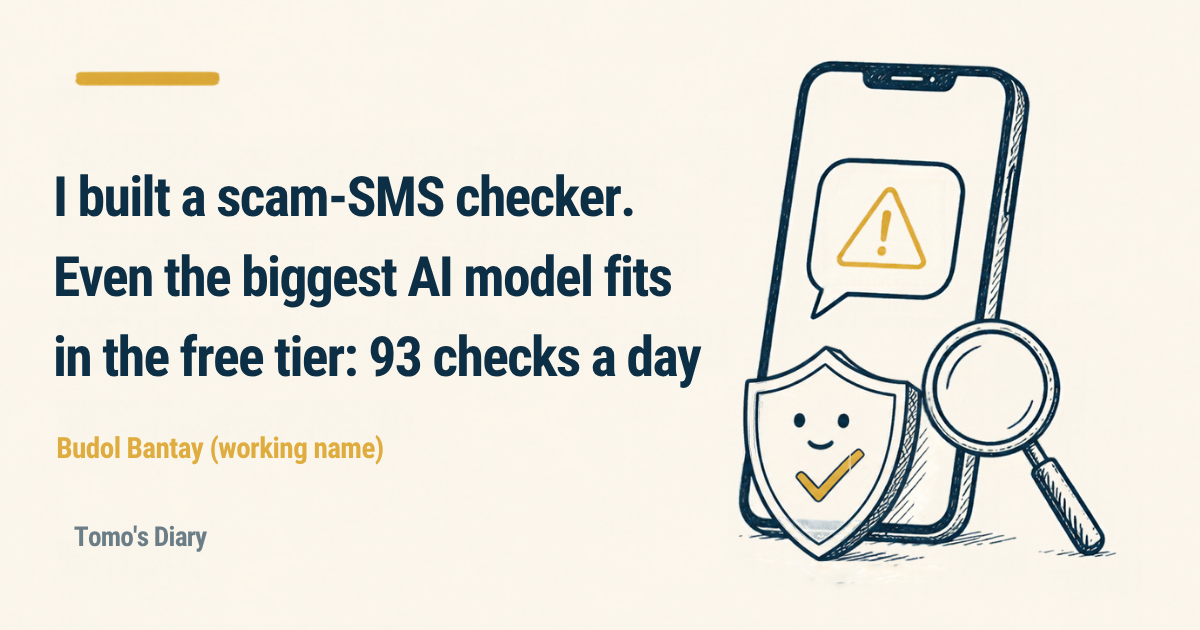
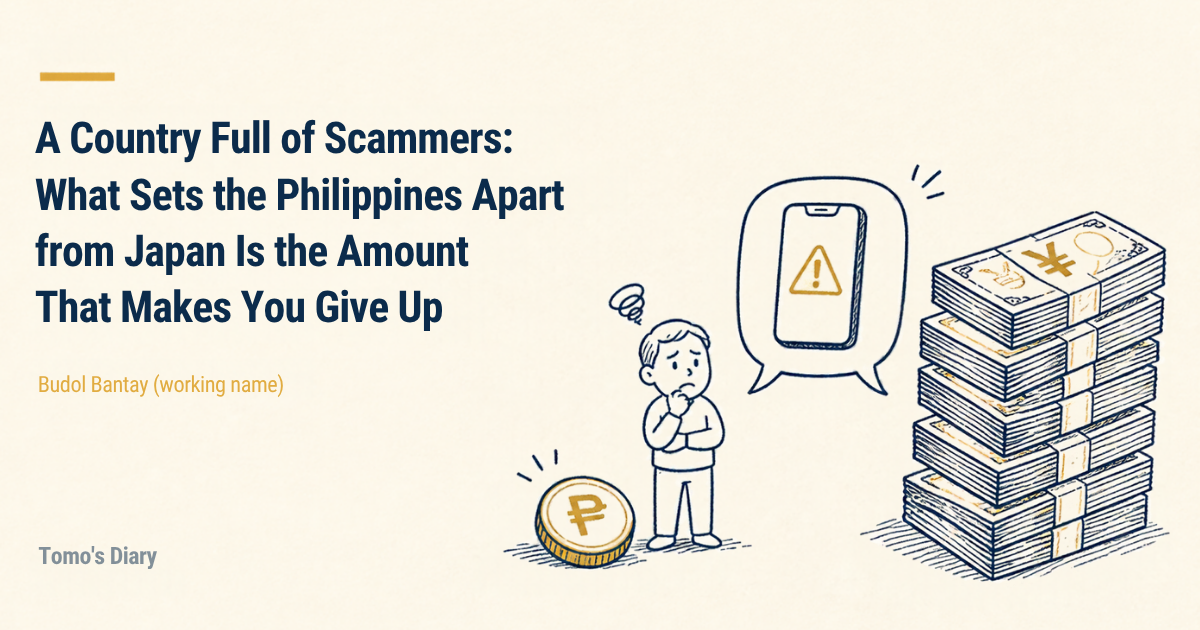
Rewrite Budol Bantay post: Japan vs Philippines angle, charts, shorter text

diff --git a/src/posts/budol-bantay.md b/src/posts/budol-bantay.md
@@ -1,7 +1,7 @@
 ---
-title: "詐欺SMS判定ツールを作った。一番大きいAIモデルでも、無料枠で1日93回は動かせる"
-date: 2026-10-30T05:40:00+08:00
-description: "怪しいSMSやMessengerのメッセージを貼ると、タガログ語まじりでも詐欺っぽさを判定する非営利ツール「Budol Bantay」を公開しました。AIはCloudflare Workers AIの無料枠だけで動かし、1日の上限を決めて、使い切ったらルール判定だけに切り替えます。20件で測ったモデル選びの数字も載せています。"
+title: "詐欺師が潜む国フィリピン。日本と違うのは\"諦めさせる額\"だった"
+date: 2026-10-30T06:10:00+08:00
+description: "フィリピンは詐欺が多い国で、日本との違いは被害者が諦めてしまう額にあると私は考えています。怪しいメッセージを貼ると詐欺っぽさを判定する非営利ツール「Budol Bantay」を作った理由と、無料枠で動かす工夫、20件で測ったモデル選びをまとめました。"
 tags:
   - tech
   - philippines
@@ -10,78 +10,73 @@ tags:
   - security
   - cloudflare
 image: /images/posts/budol-bantay/hero.png
-imageAlt: "クリーム色の背景に「詐欺SMS判定ツールを作った。一番大きいAIモデルでも、無料枠で1日93回は動かせる」というタイトルと、警告マークつきのSMSが表示されたスマートフォン、盾、虫眼鏡の線画"
+imageAlt: "クリーム色の背景に、タイトル「詐欺師が潜む国フィリピン。日本と違うのは\"諦めさせる額\"だった」。右側には、ペソの小さな硬貨と困った顔の人物、円の札束の高い山、警告マークつきのスマートフォンの吹き出しの線画"
 ---
 
-怪しいSMSやMessengerのメッセージを貼ると、詐欺っぽさを判定する非営利ツール「[Budol Bantay](https://abalol.xyz/budol-bantay/)」を、2026年10月30日の早朝（マニラ時間）に公開しました。タガログ語と英語がまざったTaglish（タグリッシュ）のメッセージでも判定できます。AIはCloudflare Workers AIの無料枠だけで動かしていて、1日の上限を使い切ったらルールだけの判定に切り替わります。請求が発生することはない設計です。名前は仮のもので、正式名称はまだ決まっていません。
+フィリピンは、詐欺師がそこらじゅうにいる国です。日本との違いは、被害者が「これくらいなら」と諦めてしまう金額にあると私は考えています。
 
-## 身近な人が自分で確かめられるように
+だから、怪しいメッセージを貼ると詐欺っぽさを判定する非営利ツール「[Budol Bantay](https://abalol.xyz/budol-bantay/)」を作りました。公開は2026年10月30日の早朝（マニラ時間）です。名前は仮で、正式名称は決まっていません。
 
-フィリピンではGCash（フィリピンで広く使われている電子決済アプリ）を名乗るSMSや、偽の配達通知、偽の求人、ローンの勧誘が日常的に届きます。身近な人が自分で確かめられる道具があったほうがいいと思ったのが、作ったきっかけです。
+## 成人の84%が詐欺に遭う国
 
-Budol Bantay は私がフィリピンで作っている「Bantay（タガログ語で見張り番）」シリーズの3つ目です。1つ目は市場価格の[Presyo Bantay](/posts/presyo-bantay/)、2つ目は防災のSakuna Bantayで、今回は詐欺メッセージの見張り番です。Budol はフィリピンで日常的に使われる「だまされる」という意味の言葉から取りました。
+GASA（Global Anti-Scam Alliance、国際詐欺対策同盟）の[2026年の調査](https://gasa.org/knowledge-base/reports/state-of-scams-in-the-philippines-2026)では、成人の84%が過去12か月に詐欺に遭っていて、1人あたり年に平均151回でした。1,160人へのアンケートからの推計で、公式な集計ではありません。
 
-## 泣き寝入りされやすい詐欺
+詐欺に遭った場所は、回答者の58%がFacebookと答えています（[Inquirer](https://business.inquirer.net/615055/survey-filipinos-lost-p121b-to-scams-in-2025)）。毎日開くSNSが、そのまま入口になっているわけです。
 
-フィリピンは詐欺がとても多い国です。国際的な非営利団体のGASA（Global Anti-Scam Alliance、国際詐欺対策同盟）が2026年に公表した[調査](https://gasa.org/knowledge-base/reports/state-of-scams-in-the-philippines-2026)では、成人の84%が過去12か月に詐欺に遭遇し、その回数は年に平均151回でした。お金を失った人の平均損失は₱10,427（₱はフィリピンペソ）で、全国の推計被害総額は₱121.8 billion（1,218億ペソ）にのぼります。ただし、これは1,160人へのアンケートをもとにした推計で、警察などの公式な集計ではありません。[Philstar](https://www.philstar.com/headlines/2026/10/10/2562116/online-scams-cost-filipinos-p1218-billion-one-year)も調査ベースの推計だと断っています。
+## 日本と違うのは「諦めさせる額」
 
-平均損失は平均値なので、小さな被害が多いとまでは言えません。それでも、泣き寝入りされやすいことは数字から見えます。同じ調査で、当局に届けた人は全体の4%、お金を失った人に限っても29%でした。DOJ（フィリピン司法省）のサイバー犯罪の担当者は、被害者が起訴の直前に「napatawad ko na（もう許した）」と言って手を引いてしまう、と話しています（[Rappler](https://www.rappler.com/newsbreak/inside-track/scam-victims-move-on-fraud-cases-hanging/)）。手口も、最初は少額から始まります。SEC（フィリピン証券取引委員会）が[警告](https://www.philstar.com/business/2025/07/25/2460429/sec-warns-public-vs-job-offer-scams)しているタスク詐欺は、₱500を払って₱1,000分の仕事を受けるところから始まり、やがて₱5,000を払わせる流れです。
+日本の特殊詐欺（オレオレ詐欺など）は、一度に大きな額を狙います。警察庁の[2025年の確定値](https://www.npa.go.jp/bureau/safetylife/sos47/new-topics/260605/01.html)では、既遂1件あたり約523.6万円でした。
 
-詐欺の舞台には毎日目にするSNSも入っています。同じ調査では、詐欺に遭遇した場所として回答者の58%がFacebookを挙げ、次がGmailの33%でした（[Inquirer](https://business.inquirer.net/615055/survey-filipinos-lost-p121b-to-scams-in-2025)）。PNP ACG（フィリピン国家警察のサイバー犯罪対策部門）が2025年（11月21日まで）に受けた通報でも、最多はオンライン売買の詐欺で1,630件でした（[Inquirer](https://newsinfo.inquirer.net/2144504/fewer-online-scams-logged-in-2025-so-far-but-acg-on-lookout-amid-holidays)）。こちらは、どのサービス上の件数かまでは分かりません。
+![日本とフィリピンの詐欺の数字を並べた図。日本は警察庁の令和7年の確定値で、特殊詐欺は既遂1件あたり523.6万円、SNS型投資・ロマンス詐欺は1,213.3万円、特殊詐欺の認知件数は27,832件。フィリピンはGASA 2026の調査ベースの推計で、成人の84%が過去12か月に詐欺に遭い、年に151回、お金を失った人の平均損失は₱10,427](/images/posts/budol-bantay/compare-japan-philippines-ja.png)
 
-しかも、売り買いされたアカウントは見た目では本物と区別がつかない、と私は考えています。実際に、FacebookでGCashのアカウントを売っていた7人が、2024年にNBI（国家捜査局）に摘発されました。捜査官が買った5件の値段は、₱1,500から₱3,500です（[Philstar](https://www.philstar.com/nation/2024/01/21/2327372/7-face-raps-selling-gcash-accounts)）。2026年1月にも、電子決済アカウントをオンラインで売っていた8人が逮捕されています（[Newsbytes.PH](https://newsbytes.ph/2026/01/26/pnp-arrests-8-for-selling-e-wallet-accounts-online/)）。SIMカードも、架空の名義で登録された240枚がFacebook Marketplaceで売られていました（[Philstar](https://www.philstar.com/nation/2025/10/13/2479426/pnp-cracks-down-sim-card-sellers)）。GASAも、詐欺師はプロフィールを複製して反応の数字を偽り、認証済みのページをまねると述べています（[BusinessWorld](https://bworldonline.com/banking-finance/2025/11/26/714453/over-60-of-filipinos-targeted-by-financial-scams-report-says/)）。
+フィリピンの調査で、お金を失った人の平均損失は₱10,427（₱はフィリピンペソ）です。ただし平均値で、集計方法も通貨も日本とは違います。比べられるのは傾向までです。
 
-相手のアカウントで見分けられないなら、せめて届いたメッセージの中身だけでも、手軽に確かめられる道具が要ると考えました。
+手口にも小ささが出ます。SEC（フィリピン証券取引委員会）が[警告](https://www.philstar.com/business/2025/07/25/2460429/sec-warns-public-vs-job-offer-scams)するタスク詐欺は、₱500を払って₱1,000分の仕事を受けるところから始まります。
 
-## 貼ると判定する仕組み
+しかも、届け出る人はごくわずかです。当局に届けたのは全体の4%、お金を失った人でも29%です。DOJ（司法省）の担当者は、被害者が起訴の直前に「napatawad ko na（もう許した）」と手を引くことがある、と話しています（[Rappler](https://www.rappler.com/newsbreak/inside-track/scam-victims-move-on-fraud-cases-hanging/)）。
 
-使い方は怪しいメッセージを貼って「I-check」を押すだけです。結果には詐欺っぽさの判定、そう判断した理由、取るべき行動が出ます。表示はTaglish、英語、日本語から選べます。
+![フィリピンで被害を当局に届けた人の割合。回答者全体で4%、お金を失った人でも29%。DOJの担当者は、被害者が起訴の直前に「もう許した」と手を引くことがあると話している](/images/posts/budol-bantay/report-rate-ja.png)
 
-構成は静的サイト（GitHub Pagesで公開）と、別に動かしているGo言語のAPIの2つです。判定は2段構えになっています。
+売り買いされたアカウントは、見た目では本物と区別がつかない、と私は思っています。FacebookでGCash（フィリピンで広く使われている電子決済アプリ）のアカウントを売っていた7人が、2024年に摘発されました。捜査したのはNBI（国家捜査局）です（[Philstar](https://www.philstar.com/nation/2024/01/21/2327372/7-face-raps-selling-gcash-accounts)）。
 
-- ルールによる判定: リンク、急がせる文句、OTP（SMSで届く使い捨ての確認コード）の要求などを、手元のブラウザで調べる
-- AIによる判定: 電話番号やOTPなどを端末側で伏せた（マスクした）コピーだけをAPIに送り、AIの判断を受け取る
+相手で見分けられないなら、せめて届いたメッセージの中身だけでも確かめられる道具が要ると考えました。
 
-ルールの結果は貼った端末の中で出ます。AIをオフにすれば、メッセージは端末の外に出ません。このAPIはあとからMessengerのボットなどでも使える可能性があります。
+## 貼るだけで判定する仕組み
 
-## 無料枠に収めるための歯止め
+怪しいSMSやMessengerのメッセージを貼って「I-check」を押すと、詐欺っぽさ、その理由、取るべき行動が出ます。Taglish（タガログ語と英語がまざった言葉）でも判定できます。
 
-AIはCloudflare Workers AI（Cloudflareが提供するAI実行サービス）の無料枠だけで動かしています。無料枠は1日10,000 neuron（Workers AIの使用量の単位）で、私は余裕を見て、1日の上限を8,000に決めました。使い切ったらAIの呼び出しをやめて、ルールだけの判定に切り替えます。無料プランのまま使っているので、上限を超えても課金はされません。日付が変わるのはマニラ時間の朝8時です。
+判定は2段構えです。リンクや急がせる文句、OTP（SMSで届く使い捨ての確認コード）の要求などをルールで調べ、そのうえでAIにも聞きます。AIに送るのは、電話番号などを伏せたコピーだけです。
 
-濫用に備えて、IPアドレスごとに回数を制限しています。CORS（ブラウザが、別のサイトからのAPI呼び出しを許すかどうかを決める仕組み）の設定では、許可したサイトからの呼び出しだけを受け付けます。
+構成は、GitHub Pagesの静的サイトと、Go言語のAPIです。このAPIは、あとからMessengerのボットにも使えるかもしれません。
 
-## 20件で測ったモデル選び
+## 無料枠に収めて、測って選ぶ
 
-どのAIモデルを使うかは、気分ではなく測って決めました。使ったのは、架空のTaglishメッセージ20件（詐欺11件、正常な連絡9件）です。モデルごとに、正解率と、1回の判定に使うneuronを測りました。neuronの数はAPIの返事に付いてくる使用量の情報から取っています。
+AIはCloudflare Workers AI（Cloudflareが提供するAI実行サービス）の無料枠だけで動かしています。無料枠は1日10,000 neuron（使用量の単位）で、余裕を見て上限を8,000にしました。使い切ったらルールだけの判定に切り替わるので、請求は発生しません。
 
-| モデル | 正解率 | 1回あたりのneuron | 1日の回数（上限8,000） |
-|---|---|---|---|
-| ルールだけ | 70% | 0 | - |
-| gpt-oss-120b | 100% | 約85 | 約93回 |
-| gpt-oss-20b | 95% | 約29 | 約276回 |
-| gemma-4-26b | 100% | 約55 | 約146回 |
-| sea-lion-v4 | 90% | 約60 | 約132回 |
-| qwen3-30b | 75% | 約33 | 約242回 |
-| llama-3.1-8b | 85% | 約29 | 約273回 |
+濫用に備えて、IPアドレスごとの回数制限もつけました。CORS（別のサイトからのAPI呼び出しを許すかを決める仕組み）は、許可したサイトだけを通します。
 
-採用したのは、いちばん大きいgpt-oss-120bです。20件すべて正解で、正常な連絡を詐欺と間違えることもありませんでした。1回に約85 neuronなので、上限の8,000では1日に約93回動かせます。小さいgpt-oss-20bは95%で、1日に約276回です。こちらはバックアップにしました。
+モデルは、架空のTaglishメッセージ20件（詐欺11件、正常9件）で測って選びました。
 
-## 期待外れだったモデルと、ルールの弱さ
+![AIモデル7種の比較。正解率と1日の回数は、ルールだけが70%、gpt-oss-120bが100%で93回、gpt-oss-20bが95%で276回、gemma-4-26bが100%で146回だが遅すぎる、sea-lion-v4が90%で132回、qwen3-30bが75%で242回、llama-3.1-8bが85%で273回](/images/posts/budol-bantay/model-comparison-ja.png)
 
-意外だったのは、東南アジア向けに調整されたsea-lion-v4でした。Taglishにいちばん強そうだと見ていたのに、正解率は90%で、正常な連絡を2件、怪しいと判定しました。そのうち1件は銀行のOTP通知です。gemma-4-26bは100%でしたが、判定に30秒以上かかる（中央値は33秒）うえ、20回のうち2回は答えが終わらず途中で切れました。同時に走らせて測ったので遅さは多少大きく出ていますが、実用にはなりませんでした。llama-3.1-8bは85%で、答えに添える助言の文章にも、意味の通らないものがありました。
+採用したのは、いちばん大きいgpt-oss-120bです。20件すべて正解で、1回に約85 neuronなので、1日に約93回動かせます。95%だった小さいgpt-oss-20bは、バックアップにしました。
 
-もうひとつ見えたのが、ルールだけの限界です。ルールは正常な連絡を詐欺と誤判定することはありませんでしたが、詐欺11件のうち6件を見逃しました。正解率は70%です。ただし、この20件はルールが苦手な詐欺を多めに混ぜて選んでいます。用意した59件全体ではルールだけでも83.1%でした。20件でのgpt-oss-120bの100%も、小さな試しの結果にすぎません。
+意外だったのは、東南アジア向けに調整されたsea-lion-v4です。90%で、銀行のOTP通知まで怪しいと判定しました。gemma-4-26bは100%でも、判定に中央値で33秒かかり、実用になりませんでした。
+
+ルールだけだと70%でした。ただ、この20件はルールが苦手なものを多めに選んであり、全59件では83.1%です。小さな試しの結果でもあります。
 
 ## 完璧ではないと、結果の横に書く
 
-結果のすぐ隣には必ず注意書きを出しています。日本語版は「このチェックは完全ではありません。迷ったときは一人で判断せず、家族・友人・信頼できる人に相談してください」です。タガログ語と英語でも同じ内容を出します。利用規約もタガログ語、英語、日本語で用意しました。
+結果の隣には、いつも注意書きを出しています。日本語版は「このチェックは完全ではありません。迷ったときは一人で判断せず、家族・友人・信頼できる人に相談してください」です。タガログ語と英語でも同じ内容を出し、利用規約も3言語で用意しました。
 
-個人の連絡先はサイトに載せていません。「うちに問い合わせられてもなぁ」というのが正直なところです。ツールへの意見や不具合の報告はGitHubのIssuesで受け付けます。詐欺にあったときは、CICC（フィリピンのサイバー犯罪対策機関）のホットライン1326、PNP ACG（フィリピン国家警察のサイバー犯罪対策部門）、銀行や電子決済アプリの公式サポートへ、と案内しています。
+個人の連絡先は載せていません。「うちに問い合わせられてもなぁ」というのが正直なところです。意見や不具合は、GitHubのIssuesで受け付けます。
 
-ソースコードは[GitHub](https://github.com/tomohiro-owada/budol-bantay)にあり、MITライセンスで公開しています。公開前には、公開してはいけないものが入っていないか、リポジトリを一通り確認しました。
+詐欺に遭ったときの届け先も案内しています。CICC（フィリピンのサイバー犯罪対策機関）のホットライン1326、PNP ACG（国家警察のサイバー犯罪対策部門）、銀行や電子決済アプリの公式サポートです。
 
-## 人に相談という最後の判定
+ソースコードは[GitHub](https://github.com/tomohiro-owada/budol-bantay)にMITライセンスで置きました。公開前に、載せてはいけないものがないか、一通り確認しています。
 
-20件で100%を出したAIを載せたのに、結果の横には「一人で判断せず、周りの人に相談を」と書いています。詐欺を見抜く道具が、最後は人に聞くようにと言っているわけです。
+## 優しさにつけ込むもの
 
-AIは1日93回で店じまいしますが、「人に相談」の一言は何回でも出ます。
+20件で100%を出したAIを載せても、結果の横には「人に相談を」と書きました。困ったら周りに聞きます。この一言は、フィリピンの支え合う文化と同じ向きだと私は思っています。
+
+支え合う文化から生まれた優しい国民性に、つけ込む詐欺は許せません。ただ、その背景に貧困や格差があることも、また事実です。

diff --git a/src/en/posts/budol-bantay.md b/src/en/posts/budol-bantay.md
@@ -1,7 +1,7 @@
 ---
-title: "I Built a Scam-SMS Checker. Even the Biggest AI Model Fits in the Free Tier: 93 Checks a Day"
-date: 2026-10-30T05:40:00+08:00
-description: "I released Budol Bantay, a nonprofit tool that judges how scam-like a suspicious SMS or Messenger message is, even when it's written in Taglish. The AI runs only on the Cloudflare Workers AI free tier with a daily cap, and falls back to rules-only checks once the cap is used up. The numbers behind my model choice, measured on 20 test messages, are included."
+title: "A Country Full of Scammers: What Sets the Philippines Apart from Japan Is the Amount That Makes You Give Up"
+date: 2026-10-30T06:10:00+08:00
+description: "The Philippines has a lot of scams, and I think what sets it apart from Japan is the amount that makes victims give up. Why I built Budol Bantay, a nonprofit tool that judges how scam-like a message is, how it runs on a free tier, and how I picked the AI model on 20 test messages."
 tags:
   - tech
   - philippines
@@ -10,79 +10,74 @@ tags:
   - security
   - cloudflare
 image: /images/posts/budol-bantay/hero-en.png
-imageAlt: "Cream background with the headline \"I built a scam-SMS checker. Even the biggest AI model fits in the free tier: 93 checks a day\" and a line drawing of a smartphone showing an SMS with a warning sign, a shield and a magnifying glass"
+imageAlt: "Cream background with the headline \"A Country Full of Scammers: What Sets the Philippines Apart from Japan Is the Amount That Makes You Give Up\" and a line drawing of a small peso coin next to a worried figure, a tall stack of yen banknotes, and a phone with a warning sign in a speech bubble"
 lang: en
 ---
 
-On the early morning of October 30, 2026 (Manila time), I released "[Budol Bantay](https://abalol.xyz/budol-bantay/)," a nonprofit tool that judges how scam-like a suspicious SMS or Messenger message is. It works on Taglish too (Tagalog and English mixed together). The AI runs only on the Cloudflare Workers AI free tier, and once the daily cap is used up it switches to rules-only checks. It's designed so that no charges can ever happen. The name is a placeholder, and the official name hasn't been decided yet.
+The Philippines is a country with scammers everywhere. What sets it apart from Japan, I think, is the amount at which victims decide to give up.
 
-## So the people around me can check for themselves
+That's why I built "[Budol Bantay](https://abalol.xyz/budol-bantay/)," a nonprofit tool that judges how scam-like a pasted message is. I released it early on October 30, 2026 (Manila time). The name is a placeholder; the official name isn't decided.
 
-In the Philippines, people get SMS messages that pretend to be GCash (an e-wallet app widely used in the Philippines), fake delivery notices, fake job offers and loan pitches all the time. I thought the people close to me should have something they can use to check for themselves, and that's why I built this.
+## A country where 84% of adults meet scams
 
-Budol Bantay is the third in the "Bantay" (Tagalog for watchman) series I'm building in the Philippines. The first was [Presyo Bantay](/en/posts/presyo-bantay/) for market prices, the second was Sakuna Bantay for disaster preparedness, and this one watches over scam messages. "Budol" is an everyday Philippine word for being conned.
+In the [2026 survey](https://gasa.org/knowledge-base/reports/state-of-scams-in-the-philippines-2026) by GASA (the Global Anti-Scam Alliance), 84% of adults had met a scam in the past 12 months, an average of 151 times a year each. It's an estimate from 1,160 respondents, not an official tally.
 
-## Scams people tend to swallow
+58% of respondents named Facebook as where they met scams ([Inquirer](https://business.inquirer.net/615055/survey-filipinos-lost-p121b-to-scams-in-2025)). The social network people open every day is the front door.
 
-The Philippines has a huge number of scams. In its 2026 [survey](https://gasa.org/knowledge-base/reports/state-of-scams-in-the-philippines-2026), the GASA (Global Anti-Scam Alliance, an international nonprofit) found that 84% of adults had come across a scam in the past 12 months, an average of 151 times a year. Among people who lost money, the average loss was ₱10,427 (₱ is the Philippine peso), and the estimated total loss nationwide is ₱121.8 billion. Note that this is an estimate based on a survey of 1,160 people, not an official tally by the police or the government. [Philstar](https://www.philstar.com/headlines/2026/10/10/2562116/online-scams-cost-filipinos-p1218-billion-one-year) also says it is a survey-based estimate.
+## What sets it apart from Japan is the amount that makes you give up
 
-The average loss is a mean, so it doesn't prove that small losses are the most common. Still, the numbers show that victims tend to give up. In the same survey, only 4% of all respondents reported to the authorities, and only 29% even among those who lost money. An official at the DOJ (the Philippine Department of Justice) who handles cybercrime says that victims sometimes tell them "napatawad ko na" ("I've already forgiven them") right before prosecution and drop the case ([Rappler](https://www.rappler.com/newsbreak/inside-track/scam-victims-move-on-fraud-cases-hanging/)). The methods start small, too. In a task scam the SEC (the Philippine Securities and Exchange Commission) [warned about](https://www.philstar.com/business/2025/07/25/2460429/sec-warns-public-vs-job-offer-scams), you pay ₱500 to get ₱1,000 worth of tasks, and later you're made to pay ₱5,000.
+Japan's special fraud (the "it's me" phone scams and the like) goes for big sums at once. In the National Police Agency's [2025 final figures](https://www.npa.go.jp/bureau/safetylife/sos47/new-topics/260605/01.html), the average was about ¥5.236 million per completed case.
 
-Scams also happen on social media that people look at every day. In the same survey, 58% of respondents named Facebook as a place where they encountered scams, followed by Gmail at 33% ([Inquirer](https://business.inquirer.net/615055/survey-filipinos-lost-p121b-to-scams-in-2025)). The most common report to the PNP ACG (the Philippine National Police Anti-Cybercrime Group) in 2025 (through November 21) was online selling scams, at 1,630 cases ([Inquirer](https://newsinfo.inquirer.net/2144504/fewer-online-scams-logged-in-2025-so-far-but-acg-on-lookout-amid-holidays)). That figure doesn't say which services the cases happened on.
+![Japan and the Philippines side by side. Japan, National Police Agency 2025 final figures: special fraud averages ¥5.236 million per completed case, SNS investment and romance fraud ¥12.133 million, and there were 27,832 special fraud cases. The Philippines, GASA 2026 survey-based estimate: 84% of adults met a scam in the past 12 months, 151 times a year, and those who lost money lost ₱10,427 on average](/images/posts/budol-bantay/compare-japan-philippines-en.png)
 
-On top of that, I believe an account that has been bought and sold looks no different from a real one. In January 2024, the NBI (the National Bureau of Investigation) arrested seven people who were selling GCash accounts on Facebook, and the five accounts its agents bought cost ₱1,500 to ₱3,500 each ([Philstar](https://www.philstar.com/nation/2024/01/21/2327372/7-face-raps-selling-gcash-accounts)). In January 2026, eight people who were selling e-wallet accounts online were arrested too ([Newsbytes.PH](https://newsbytes.ph/2026/01/26/pnp-arrests-8-for-selling-e-wallet-accounts-online/)). Even SIM cards turned up for sale: 240 registered under fictitious names were sold on Facebook Marketplace ([Philstar](https://www.philstar.com/nation/2025/10/13/2479426/pnp-cracks-down-sim-card-sellers)). The GASA also says scammers clone profiles, fabricate engagement numbers and mimic verified pages ([BusinessWorld](https://bworldonline.com/banking-finance/2025/11/26/714453/over-60-of-filipinos-targeted-by-financial-scams-report-says/)).
+In the Philippine survey, people who lost money lost ₱10,427 on average (₱ is the Philippine peso). That's a mean, and the method and currency differ from Japan's. Only the tendency can be compared.
 
-If you can't tell from the sender's account, you at least need a way to easily check what the message itself says. That's what I wanted.
+The tricks start small, too. The task scam that the SEC (Securities and Exchange Commission) [warns about](https://www.philstar.com/business/2025/07/25/2460429/sec-warns-public-vs-job-offer-scams) starts with paying ₱500 to get ₱1,000 worth of work.
 
-## How it judges what you paste
+And very few people report. Only 4% of respondents told the authorities, and 29% of those who lost money. A DOJ (Department of Justice) official says victims sometimes drop out right before prosecution, saying "napatawad ko na" (I've already forgiven them) ([Rappler](https://www.rappler.com/newsbreak/inside-track/scam-victims-move-on-fraud-cases-hanging/)).
 
-You paste a suspicious message and press "I-check." The result shows how scam-like it is, why it came to that judgment, and what to do next. The interface comes in Taglish, English and Japanese.
+![Share of victims who reported to the authorities in the Philippines: 4% of all respondents and 29% of those who lost money. A DOJ official says victims sometimes drop the case just before prosecution, saying they have forgiven the scammer](/images/posts/budol-bantay/report-rate-en.png)
 
-It's made of two parts: a static site (hosted on GitHub Pages) and a separate API written in Go. The judgment has two layers.
+I believe bought and sold accounts can't be told apart from real ones by looking. Seven people who sold GCash (a widely used e-wallet app in the Philippines) accounts on Facebook were charged in 2024. The NBI (National Bureau of Investigation) ran the case ([Philstar](https://www.philstar.com/nation/2024/01/21/2327372/7-face-raps-selling-gcash-accounts)).
 
-- Rule-based checks: links, urgency phrases, requests for an OTP (a one-time code sent by SMS), and so on, checked in your own browser
-- AI judgment: only a copy with phone numbers, OTPs and similar details masked on your device is sent to the API, which returns the AI's verdict
+If you can't tell by the sender, you at least need a tool to check what the message says. That's how I saw it.
 
-The rule-based result is produced on the device you pasted into. If you turn the AI off, the message never leaves your device. The same API could also be used later from something like a Messenger bot.
+## How it works: paste and get a verdict
 
-## Guardrails to stay inside the free tier
+Paste a suspicious SMS or Messenger message and press "I-check." You get how scam-like it is, why, and what to do. It works on Taglish (Tagalog and English mixed together) too.
 
-The AI runs only on the free tier of Cloudflare Workers AI (Cloudflare's service for running AI models). The free tier gives you 10,000 neurons (Workers AI's unit of usage) a day, and I set the daily cap at 8,000 to leave some margin. Once it's used up, the API stops calling the AI and falls back to rules-only checks. I use the free plan, so nothing is billed even if the cap is exceeded. The day rolls over at 8:00 a.m. Manila time.
+The verdict has two stages. Rules check links, pressure phrases, and requests for an OTP (the one-time code sent by SMS). Then the AI weighs in. The AI only receives a copy with phone numbers and the like masked.
 
-There are also safeguards against abuse. Requests are rate-limited per IP address, and the CORS settings (CORS is the browser mechanism that decides whether another website may call an API) let only allowed sites call the API.
+It's a static site on GitHub Pages plus an API written in Go. The API might also serve a Messenger bot later.
 
-## Choosing a model with 20 test messages
+## Staying inside the free tier, and measuring to choose
 
-I picked the AI model by measuring, not by gut feeling. The test set was 20 fictional Taglish messages (11 scams and 9 legitimate ones). For each model I measured accuracy and the neurons spent per check. The neuron figures come from the usage information returned in the API responses.
+The AI runs only on the free tier of Cloudflare Workers AI (Cloudflare's AI inference service). The free tier is 10,000 neurons a day (a unit of usage), and I set my cap at 8,000 to leave some room. Once it's used up, the tool falls back to rules-only checks, so there's no bill.
 
-| Model | Accuracy | Neurons per check | Checks per day (cap 8,000) |
-|---|---|---|---|
-| Rules only | 70% | 0 | - |
-| gpt-oss-120b | 100% | ~85 | ~93 |
-| gpt-oss-20b | 95% | ~29 | ~276 |
-| gemma-4-26b | 100% | ~55 | ~146 |
-| sea-lion-v4 | 90% | ~60 | ~132 |
-| qwen3-30b | 75% | ~33 | ~242 |
-| llama-3.1-8b | 85% | ~29 | ~273 |
+Against abuse, there's a per-IP rate limit. CORS (the browser mechanism that decides which sites may call an API) lets only allowed sites through.
 
-I adopted the biggest one, gpt-oss-120b. It got all 20 right and never flagged a legitimate message as a scam. At about 85 neurons per check, the 8,000 cap allows about 93 checks a day. The smaller gpt-oss-20b scored 95% and allows about 276 checks a day, so it's the backup.
+I chose the model by measuring on 20 fictional Taglish messages (11 scams, 9 legit).
 
-## The disappointing models, and the weakness of rules
+![Comparison of seven options. Accuracy and calls per day: rules only 70%; gpt-oss-120b 100% and 93 calls; gpt-oss-20b 95% and 276; gemma-4-26b 100% and 146 but too slow; sea-lion-v4 90% and 132; qwen3-30b 75% and 242; llama-3.1-8b 85% and 273](/images/posts/budol-bantay/model-comparison-en.png)
 
-The surprise was sea-lion-v4, which is tuned for Southeast Asia. I had figured it would be the strongest at Taglish, yet it scored 90% and flagged two legitimate messages as suspicious. One of them was a bank OTP notice. gemma-4-26b scored 100%, but it took over 30 seconds per check (the median was 33 seconds), and in 2 of the 20 runs the answer never finished and was cut off. I ran the models at the same time, so the slowness is somewhat exaggerated, but it still wasn't practical. llama-3.1-8b scored 85%, and some of the advice text it produced made no sense.
+I adopted the biggest one, gpt-oss-120b. It got all 20 right and uses about 85 neurons a call, so it runs about 93 times a day. The smaller gpt-oss-20b, at 95%, is the backup.
 
-The other thing I saw was the limit of rules alone. The rules never misjudged a legitimate message as a scam, but they missed 6 of the 11 scams, which gives 70% accuracy. That said, I chose these 20 messages to include a lot of scams the rules are bad at. Across the full set of 59 messages, rules alone scored 83.1%. And gpt-oss-120b's 100% on 20 messages is only the result of a small trial.
+What surprised me was sea-lion-v4, tuned for Southeast Asia. It scored 90% and flagged a bank's OTP notice as suspicious. gemma-4-26b scored 100% but took a median of 33 seconds, so it wasn't usable.
 
-## Saying "not perfect" right next to the result
+Rules alone scored 70%. But I'd picked more of the messages the rules are weak on, and on all 59 messages it was 83.1%. It's also a small test.
 
-A notice always appears right next to the result. In Japanese it reads 「このチェックは完全ではありません。迷ったときは一人で判断せず、家族・友人・信頼できる人に相談してください」, roughly "This check is not perfect. If you're unsure, don't decide alone; ask family, friends or someone you trust." It's shown in Tagalog and English too. I also wrote the terms of use in Tagalog, English and Japanese.
+## Writing "this isn't perfect" next to the result
 
-I haven't put any personal contact information on the site. Honestly, my feeling is that people shouldn't be sending questions to me. Feedback and bug reports go to GitHub Issues. If you've been scammed, the site points you to the CICC (the Philippines' Cybercrime Investigation and Coordinating Center) hotline 1326, the PNP ACG (the Philippine National Police Anti-Cybercrime Group), and the official support of your bank or e-wallet.
+A disclaimer always sits next to the result. In the Japanese version it reads: "This check is not perfect. When in doubt, don't decide alone; talk to family, friends, or someone you trust." The Tagalog and English versions say the same, and the terms of use come in all three languages.
 
-The source code is on [GitHub](https://github.com/tomohiro-owada/budol-bantay) under the MIT license. Before the release, I went through the repository to check that nothing that shouldn't be public was in it.
+I don't list any personal contact. "Please don't send your questions to me" is the honest answer. Feedback and bug reports go to GitHub Issues.
 
-## The last verdict: ask a person
+I also point people to where to report a scam: the hotline 1326 of the CICC (the Philippines' cybercrime agency), the PNP ACG (the national police's cybercrime group), and the official support of banks and e-wallet apps.
 
-I put an AI that scored 100% on 20 messages into this tool, and yet next to every result it says, "Don't decide alone; ask the people around you." A tool for spotting scams ends up telling you to go ask someone.
+The source code is on [GitHub](https://github.com/tomohiro-owada/budol-bantay) under the MIT license. Before release, I went through it once to make sure nothing that shouldn't be public was in there.
 
-The AI closes up shop after 93 checks a day, but the line "ask a person" can show up as many times as needed.
+## Kindness that scams prey on
+
+Even with an AI that scored 100% on 20 messages, I wrote "talk to someone" next to the result. When in doubt, ask the people around you. I think that one line points the same way as the Philippines' culture of supporting each other.
+
+I won't forgive scams that prey on the kind national character born of a culture of mutual support. But the poverty and inequality behind them are a fact, too.
